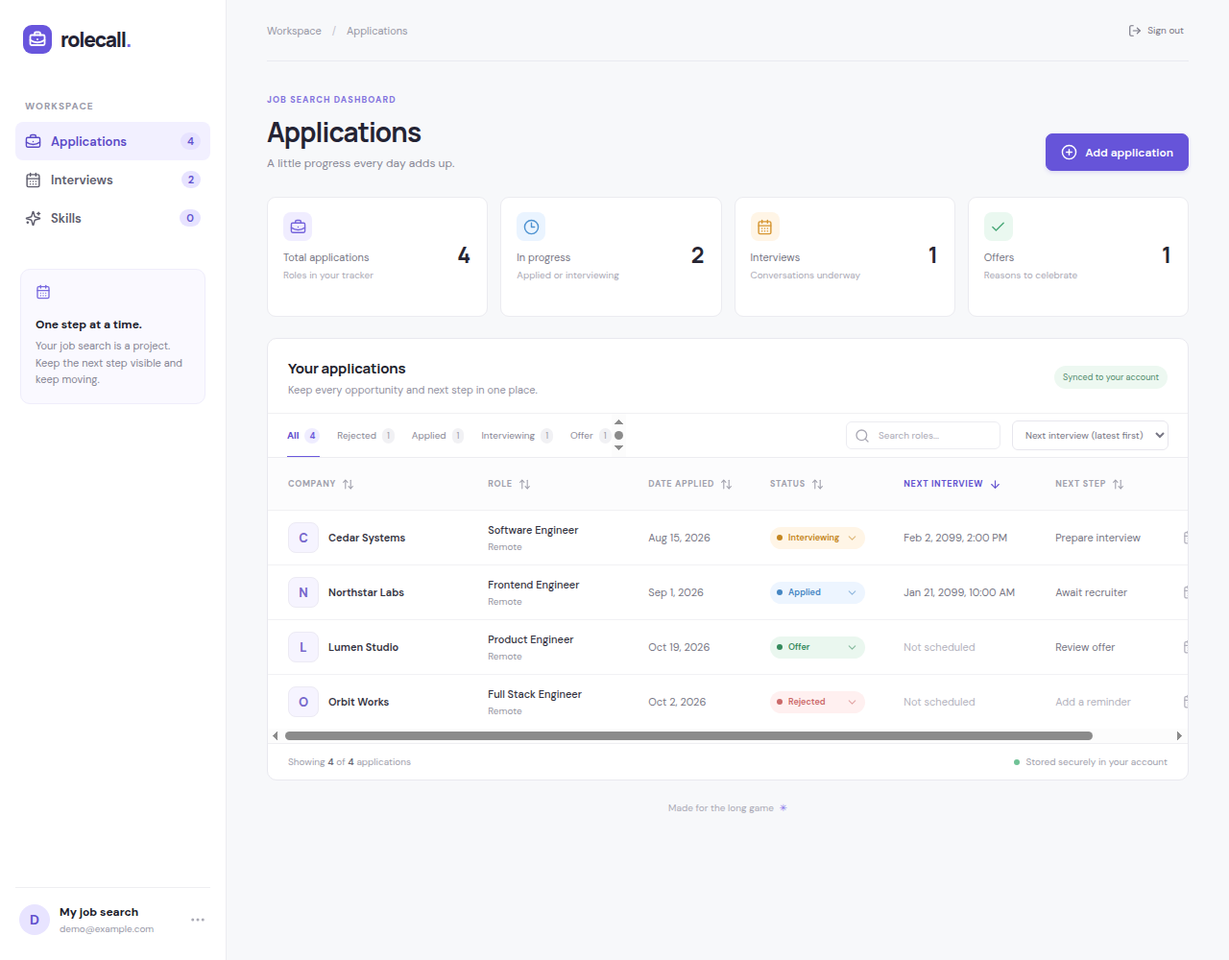
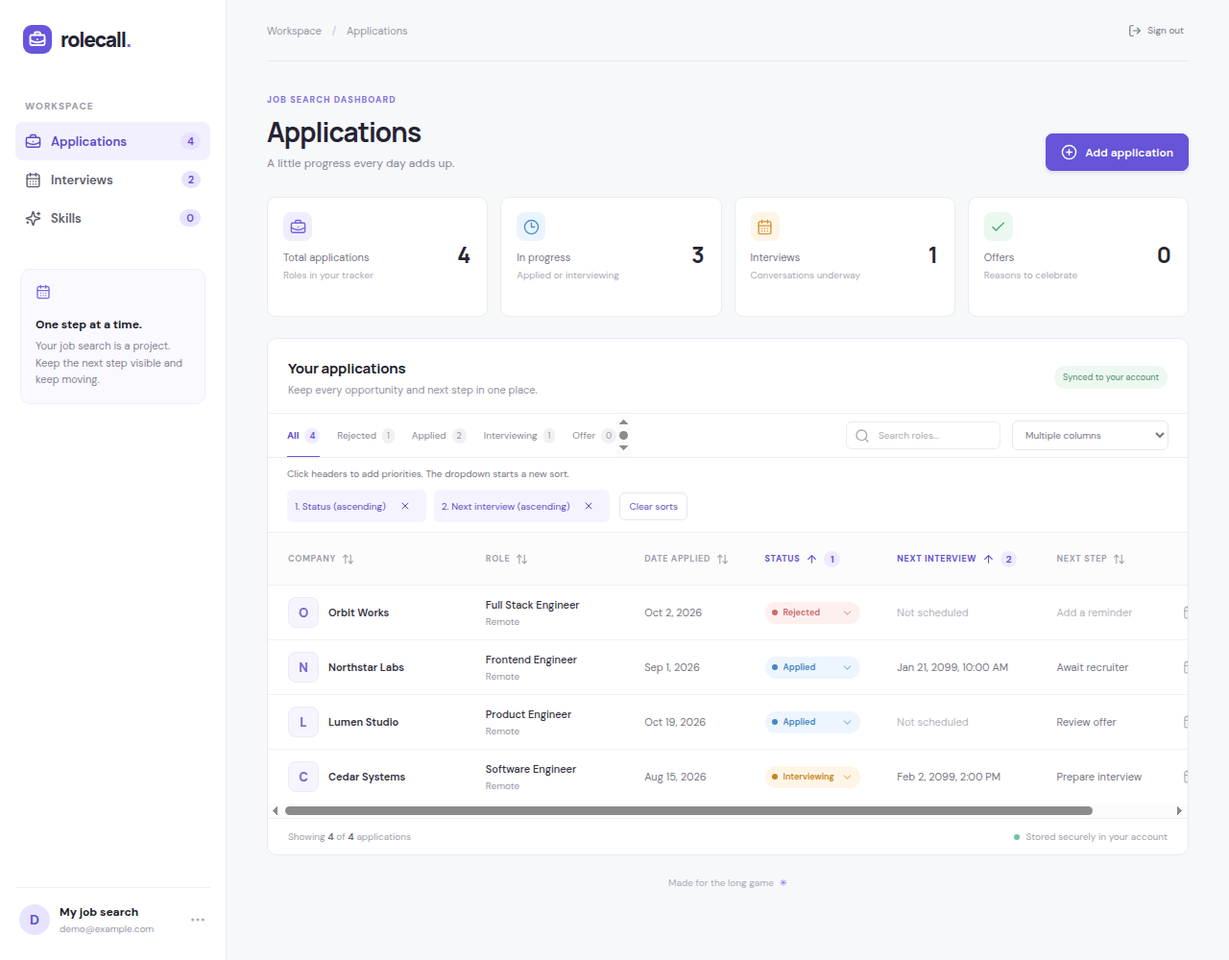
Stack column sorts in click priority order

diff --git a/src/app/App.tsx b/src/app/App.tsx
@@ -11,7 +11,7 @@ import { applicationColumns, fromRow, toRow } from '../features/applications/dat
 import type { ApplicationRow } from '../features/applications/data/applicationRow'
 import { readLegacyApplications } from '../features/applications/data/legacyApplications'
 import { statuses } from '../features/applications/statuses'
-import { getApplicationSortState, nextInterviewTimestamp, sortApplications, toggleApplicationSort } from '../features/applications/applicationSort'
+import { getApplicationSortState, nextInterviewTimestamp, sortApplications, toggleApplicationSortStack } from '../features/applications/applicationSort'
 import type { ApplicationSort, ApplicationSortColumn } from '../features/applications/applicationSort'
 import ApplicationModal from '../features/applications/components/ApplicationModal'
 import ApplicationDetailView from '../features/applications/components/ApplicationDetailView'
@@ -46,24 +46,39 @@ const applicationSortOptions: { value: ApplicationSort; label: string }[] = [
   { value: 'next-step-desc', label: 'Next step Z–A' },
 ]
 
+const applicationSortColumns: { column: ApplicationSortColumn; label: string }[] = [
+  { column: 'company', label: 'Company' },
+  { column: 'role', label: 'Role' },
+  { column: 'date-applied', label: 'Date applied' },
+  { column: 'status', label: 'Status' },
+  { column: 'next-interview', label: 'Next interview' },
+  { column: 'next-step', label: 'Next step' },
+]
+
 const interviewDateFormatter = new Intl.DateTimeFormat(undefined, {
   month: 'short', day: 'numeric', year: 'numeric', hour: 'numeric', minute: '2-digit',
 })
 
-function ApplicationSortHeader({ column, label, sort, onSort }: {
+function ApplicationSortHeader({ column, label, sorts, onSort }: {
   column: ApplicationSortColumn
   label: string
-  sort: ApplicationSort
+  sorts: readonly ApplicationSort[]
   onSort: (column: ApplicationSortColumn) => void
 }) {
-  const state = getApplicationSortState(sort)
-  const direction = state?.column === column ? state.direction : undefined
+  const priority = sorts.findIndex((sort) => getApplicationSortState(sort)?.column === column)
+  const direction = priority >= 0 ? getApplicationSortState(sorts[priority])?.direction : undefined
   const Icon = direction === 'ascending' ? ArrowUp : direction === 'descending' ? ArrowDown : ArrowUpDown
-  return <th scope="col" aria-sort={direction}>
+  const description = direction
+    ? `Sort priority ${priority + 1} of ${sorts.length}, ${direction}. Activate to reverse direction.`
+    : 'Activate to add this column after the current sort priorities.'
+  return <th scope="col" aria-sort={priority === 0 ? direction : undefined} data-sort-active={direction ? 'true' : undefined}>
     <button type="button" className="column-sort-button" onClick={() => onSort(column)}
+      aria-describedby={`sort-description-${column}`}
       title={`Sort ${label.toLowerCase()} ${direction === 'ascending' ? 'descending' : 'ascending'}`}>
       {label}<Icon size={13} aria-hidden="true" />
+      {priority >= 0 && <span className="column-sort-priority" aria-hidden="true">{priority + 1}</span>}
     </button>
+    <span hidden id={`sort-description-${column}`}>{description}</span>
   </th>
 }
 
@@ -82,7 +97,8 @@ function App() {
   const [dataLoading, setDataLoading] = useState(false)
   const [activeStatus, setActiveStatus] = useState<Status | 'All'>('All')
   const [search, setSearch] = useState('')
-  const [applicationSort, setApplicationSort] = useState<ApplicationSort>('status')
+  const [applicationSorts, setApplicationSorts] = useState<ApplicationSort[]>([])
+  const applicationSort = applicationSorts[0] ?? 'status'
   const [isFormOpen, setIsFormOpen] = useState(false)
   const [interviewEditorApplicationId, setInterviewEditorApplicationId] = useState<string | null>(null)
   const [editingApplication, setEditingApplication] = useState<Application | null>(null)
@@ -215,8 +231,8 @@ function App() {
       .filter((application) => activeStatus === 'All' || application.status === activeStatus)
       .filter((application) =>
         !query || `${application.company} ${application.role} ${application.location}`.toLowerCase().includes(query),
-      ), applicationSort, agendaNow)
-  }, [applications, activeStatus, search, applicationSort, agendaNow])
+      ), applicationSorts.length ? applicationSorts : ['status'], agendaNow)
+  }, [applications, activeStatus, search, applicationSorts, agendaNow])
 
   const activeCount = applications.filter((item) => ['Applied', 'Interviewing'].includes(item.status)).length
   const interviewCount = applications.filter((item) => item.status === 'Interviewing').length
@@ -684,14 +700,28 @@ function App() {
             <div className="tabs" role="tablist" aria-label="Filter by status">
               {(['All', ...statuses] as const).map((status) => <button key={status} role="tab" aria-selected={activeStatus === status} className={`tab ${activeStatus === status ? 'tab-active' : ''}`} onClick={() => setActiveStatus(status)}>{status}<span>{status === 'All' ? applications.length : applications.filter((item) => item.status === status).length}</span></button>)}
             </div>
-            <div className="toolbar-actions"><label className="search-box"><Search size={16} /><input value={search} onChange={(event) => setSearch(event.target.value)} placeholder="Search roles..." /></label><label className="sort-control"><span className="sr-only">Sort applications</span><select value={applicationSort} onChange={(event) => setApplicationSort(event.target.value as ApplicationSort)}>{applicationSortOptions.map(({ value, label }) => <option key={value} value={value}>{label}</option>)}</select></label></div>
+            <div className="toolbar-actions"><label className="search-box"><Search size={16} /><input value={search} onChange={(event) => setSearch(event.target.value)} placeholder="Search roles..." /></label><label className="sort-control"><span className="sr-only">Sort applications</span><select value={applicationSorts.length > 1 ? 'stacked' : applicationSort} aria-describedby="application-sort-help" onChange={(event) => setApplicationSorts([event.target.value as ApplicationSort])}>{applicationSorts.length > 1 && <option value="stacked" disabled>Multiple columns</option>}{applicationSortOptions.map(({ value, label }) => <option key={value} value={value}>{label}</option>)}</select></label></div>
+          </div>
+          <div className="application-sort-summary">
+            <span id="application-sort-help">Click headers to add priorities. The dropdown starts a new sort.</span>
+            {applicationSorts.length > 0
+              ? <ol aria-label="Sort priority">{applicationSorts.map((sort, index) => {
+                const state = getApplicationSortState(sort)!
+                const label = applicationSortColumns.find(({ column }) => column === state.column)!.label
+                return <li key={state.column}><span>{index + 1}. {label} ({state.direction})</span><button type="button" aria-label={`Remove ${label} sort`} onClick={() => setApplicationSorts((current) => current.filter((item) => item !== sort))}><X size={12} aria-hidden="true" /></button></li>
+              })}</ol>
+              : <span>Default: Status order</span>}
+            <button type="button" className="clear-application-sorts" disabled={!applicationSorts.length} onClick={() => setApplicationSorts([])}>Clear sorts</button>
+            <span role="status" className="sr-only">{applicationSorts.length
+              ? `Sort priority: ${applicationSorts.map((sort, index) => {
+                const state = getApplicationSortState(sort)!
+                return `${index + 1}. ${applicationSortColumns.find(({ column }) => column === state.column)!.label}, ${state.direction}`
+              }).join('; ')}`
+              : 'Default status order. No explicit sort priorities.'}</span>
           </div>
           {dataLoading ? <div className="empty-state"><p>Loading your applications…</p></div> : visibleApplications.length > 0 ? (
             <div className="table-wrap application-table-wrap"><table className="application-table"><thead><tr>
-              {([
-                ['company', 'Company'], ['role', 'Role'], ['date-applied', 'Date applied'],
-                ['status', 'Status'], ['next-interview', 'Next interview'], ['next-step', 'Next step'],
-              ] as const).map(([column, label]) => <ApplicationSortHeader key={column} column={column} label={label} sort={applicationSort} onSort={(selectedColumn) => setApplicationSort((current) => toggleApplicationSort(current, selectedColumn))} />)}
+              {applicationSortColumns.map(({ column, label }) => <ApplicationSortHeader key={column} column={column} label={label} sorts={applicationSorts} onSort={(selectedColumn) => setApplicationSorts((current) => toggleApplicationSortStack(current, selectedColumn))} />)}
               <th scope="col"><span className="sr-only">Actions</span></th></tr></thead><tbody>
               {visibleApplications.map((application) => {
                 const nextInterview = nextInterviewTimestamp(application, agendaNow)

diff --git a/src/test/unit/applicationSort.test.ts b/src/test/unit/applicationSort.test.ts
@@ -1,5 +1,5 @@
 import { describe, expect, it } from 'vitest'
-import { getApplicationSortState, nextInterviewTimestamp, sortApplications, toggleApplicationSort } from '../../features/applications/applicationSort'
+import { getApplicationSortState, nextInterviewTimestamp, sortApplications, toggleApplicationSort, toggleApplicationSortStack } from '../../features/applications/applicationSort'
 import type { ApplicationSort, ApplicationSortColumn } from '../../features/applications/applicationSort'
 import type { Application, Interview } from '../../shared/types'
 
@@ -126,5 +126,82 @@ describe('application column sorting', () => {
     expect(sortApplications(input, 'next-step', now).map((row) => row.id)).toEqual(['alpha', 'tie', 'zebra', 'blank', 'space'])
     expect(sortApplications(input, 'next-step-desc', now).map((row) => row.id)).toEqual(['zebra', 'alpha', 'tie', 'blank', 'space'])
     expect(input[2].nextStep).toBe('  Call recruiter  ')
+  })
+})
+
+
+describe('ordered application sort stacks', () => {
+  const input: Application[] = [
+    { ...application('offer-none', '2026-10-01'), status: 'Offer' },
+    { ...application('applied-later', '2026-10-03', [interview('1', '2026-10-07', '09:00')]), company: 'Zulu' },
+    { ...application('applied-none', '2026-10-02') },
+    { ...application('offer-soon', '2026-10-04', [interview('2', '2026-10-05', '13:00')]), status: 'Offer' },
+    { ...application('applied-soon', '2026-10-05', [interview('3', '2026-10-05', '13:00')]), company: 'Beta' },
+    { ...application('applied-tie', '2026-10-06', [interview('4', '2026-10-05', '13:00')]), company: 'Alpha' },
+  ]
+  const ids = (sort: readonly ApplicationSort[]) => sortApplications(input, sort, now).map((row) => row.id)
+
+  it('appends new columns and toggles existing columns without changing their priority or input', () => {
+    const initial: readonly ApplicationSort[] = ['status', 'next-interview']
+    expect(toggleApplicationSortStack([], 'status')).toEqual(['status'])
+    expect(toggleApplicationSortStack(initial, 'company')).toEqual(['status', 'next-interview', 'company'])
+    expect(toggleApplicationSortStack(initial, 'status')).toEqual(['status-desc', 'next-interview'])
+    expect(toggleApplicationSortStack(initial, 'next-interview')).toEqual(['status', 'next-interview-desc'])
+    expect(toggleApplicationSortStack(['status-desc', 'next-interview-desc'], 'status')).toEqual(['status', 'next-interview-desc'])
+    expect(initial).toEqual(['status', 'next-interview'])
+  })
+
+  it('keeps status primary and sorts upcoming interviews inside each status', () => {
+    expect(ids(['status', 'next-interview'])).toEqual(['applied-soon', 'applied-tie', 'applied-later', 'applied-none', 'offer-soon', 'offer-none'])
+  })
+
+  it('reverses the primary key without reversing secondary interview order', () => {
+    expect(ids(['status-desc', 'next-interview'])).toEqual(['offer-soon', 'offer-none', 'applied-soon', 'applied-tie', 'applied-later', 'applied-none'])
+  })
+
+  it('reverses the secondary key while leaving missing interviews last within each status', () => {
+    expect(ids(['status', 'next-interview-desc'])).toEqual(['applied-later', 'applied-soon', 'applied-tie', 'applied-none', 'offer-soon', 'offer-none'])
+  })
+
+  it('uses a tertiary key only when both earlier keys tie', () => {
+    expect(ids(['status', 'next-interview', 'company'])).toEqual(['applied-tie', 'applied-soon', 'applied-later', 'applied-none', 'offer-soon', 'offer-none'])
+  })
+
+  it('gives the first clicked column priority rather than imposing status priority', () => {
+    const stack = toggleApplicationSortStack(toggleApplicationSortStack([], 'next-interview'), 'status')
+    expect(stack).toEqual(['next-interview', 'status'])
+    expect(ids(stack)).toEqual(['applied-soon', 'applied-tie', 'offer-soon', 'applied-later', 'applied-none', 'offer-none'])
+  })
+
+  it('uses explicit date criteria before any implicit role or company tie-breaker', () => {
+    const companyRows = [
+      { ...application('earlier-z', '2026-10-01'), company: 'Acme', role: 'Zebra' },
+      { ...application('later-a', '2026-10-02'), company: 'ACME', role: 'Analyst' },
+    ]
+    expect(sortApplications(companyRows, ['company', 'oldest'], now).map((row) => row.id)).toEqual(['earlier-z', 'later-a'])
+    const roleRows = companyRows.map((row, index) => ({ ...row, company: index === 0 ? 'Zulu' : 'Alpha', role: 'Engineer' }))
+    expect(sortApplications(roleRows, ['role', 'oldest'], now).map((row) => row.id)).toEqual(['earlier-z', 'later-a'])
+  })
+
+  it('retains saved order when all explicit keys tie, including an empty stack', () => {
+    const tied = [
+      { ...application('first', '2026-10-01'), company: 'Acme', role: 'Zulu' },
+      { ...application('second', '2026-10-01'), company: 'ACME', role: 'Alpha' },
+    ]
+    expect(sortApplications(tied, ['company', 'status'], now).map((row) => row.id)).toEqual(['first', 'second'])
+    expect(sortApplications(input, [], now)).toEqual(input)
+    expect(sortApplications(input, [], now)).not.toBe(input)
+  })
+
+  it('keeps blank next steps last within earlier-key groups in either direction', () => {
+    const stepRows: Application[] = [
+      { ...application('offer-blank', ''), status: 'Offer' },
+      { ...application('applied-blank', ''), nextStep: ' ' },
+      { ...application('offer-step', ''), status: 'Offer', nextStep: 'Call' },
+      { ...application('applied-step', ''), nextStep: 'Write' },
+    ]
+    for (const step of ['next-step', 'next-step-desc'] as const) {
+      expect(sortApplications(stepRows, ['status', step], now).map((row) => row.id)).toEqual(['applied-step', 'applied-blank', 'offer-step', 'offer-blank'])
+    }
   })
 })

diff --git a/src/test/integration/App.sorting.test.tsx b/src/test/integration/App.sorting.test.tsx
@@ -37,6 +37,7 @@ describe('application sorting controls', () => {
       { header: 'Next step', asc: ['alpha', 'Beta', 'Zeta'], desc: ['Zeta', 'Beta', 'alpha'], option: 'next-step-desc' },
     ]
     for (const { header, asc, desc, option } of cases) {
+      fireEvent.click(screen.getByRole('button', { name: 'Clear sorts' }))
       const button = screen.getByRole('button', { name: header })
       fireEvent.click(button)
       expect(visibleCompanies()).toEqual(asc)
@@ -55,6 +56,52 @@ describe('application sorting controls', () => {
     fireEvent.change(screen.getByPlaceholderText('Search roles...'), { target: { value: '' } })
     fireEvent.click(screen.getByRole('tab', { name: /Applied/ }))
     expect(visibleCompanies()).toEqual(['Beta'])
+  })
+
+  it('stacks headers in first-click priority, toggles in place, and supports removing and clearing sorts', async () => {
+    const groupedRows = [
+      { ...rows[1], id: 'a', company: 'Atlas', status: 'Applied' },
+      { ...rows[2], id: 'b', company: 'Beacon', status: 'Interviewing' },
+      { ...rows[2], id: 'c', company: 'Cedar', status: 'Applied' },
+      { ...rows[0], id: 'd', company: 'Delta', status: 'Interviewing' },
+    ]
+    mocks.from.mockReturnValue({ select: () => ({ order: vi.fn().mockResolvedValue({ data: groupedRows, error: null }) }) })
+    render(<App />)
+    await screen.findByRole('button', { name: 'Edit Engineer at Atlas' })
+    fireEvent.click(screen.getByRole('button', { name: 'Status' }))
+    fireEvent.click(screen.getByRole('button', { name: 'Next interview' }))
+    expect(visibleCompanies()).toEqual(['Cedar', 'Atlas', 'Beacon', 'Delta'])
+    const priorities = () => within(screen.getByRole('list', { name: 'Sort priority' })).getAllByRole('listitem').map((item) => item.textContent)
+    expect(priorities()).toEqual(['1. Status (ascending)', '2. Next interview (ascending)'])
+    expect((screen.getByRole('combobox', { name: 'Sort applications' }) as HTMLSelectElement).value).toBe('stacked')
+    expect(screen.getByRole('columnheader', { name: 'Status' }).getAttribute('aria-sort')).toBe('ascending')
+    expect(screen.getByRole('columnheader', { name: 'Next interview' }).hasAttribute('aria-sort')).toBe(false)
+    expect(screen.getByRole('button', { name: 'Next interview' }).getAttribute('aria-describedby')).toBe('sort-description-next-interview')
+    fireEvent.click(screen.getByRole('button', { name: 'Next interview' }))
+    expect(priorities()).toEqual(['1. Status (ascending)', '2. Next interview (descending)'])
+    expect(visibleCompanies()).toEqual(['Atlas', 'Cedar', 'Beacon', 'Delta'])
+    fireEvent.click(screen.getByRole('button', { name: 'Status' }))
+    expect(priorities()).toEqual(['1. Status (descending)', '2. Next interview (descending)'])
+    expect(visibleCompanies()).toEqual(['Beacon', 'Delta', 'Atlas', 'Cedar'])
+    fireEvent.click(screen.getByRole('button', { name: 'Remove Status sort' }))
+    expect(priorities()).toEqual(['1. Next interview (descending)'])
+    expect(visibleCompanies()).toEqual(['Atlas', 'Beacon', 'Cedar', 'Delta'])
+    expect(screen.getByRole('columnheader', { name: 'Next interview' }).getAttribute('aria-sort')).toBe('descending')
+    fireEvent.click(screen.getByRole('button', { name: 'Clear sorts' }))
+    expect(screen.queryByRole('list', { name: 'Sort priority' })).toBeNull()
+    expect(visibleCompanies()).toEqual(['Atlas', 'Cedar', 'Beacon', 'Delta'])
+    expect((screen.getByRole('button', { name: 'Clear sorts' }) as HTMLButtonElement).disabled).toBe(true)
+    // The default status order does not become an invisible primary criterion.
+    fireEvent.click(screen.getByRole('button', { name: 'Next interview' }))
+    fireEvent.click(screen.getByRole('button', { name: 'Status' }))
+    expect(priorities()).toEqual(['1. Next interview (ascending)', '2. Status (ascending)'])
+    expect(visibleCompanies()).toEqual(['Cedar', 'Beacon', 'Atlas', 'Delta'])
+    fireEvent.change(screen.getByRole('combobox', { name: 'Sort applications' }), { target: { value: 'next-interview' } })
+    expect(priorities()).toEqual(['1. Next interview (ascending)'])
+    expect(visibleCompanies()).toEqual(['Beacon', 'Cedar', 'Atlas', 'Delta'])
+    fireEvent.change(screen.getByRole('combobox', { name: 'Sort applications' }), { target: { value: 'company-desc' } })
+    expect(priorities()).toEqual(['1. Company (descending)'])
+    expect(visibleCompanies()).toEqual(['Delta', 'Cedar', 'Beacon', 'Atlas'])
   })
 
   it('shows the earliest upcoming interview and keeps unscheduled applications last in either direction', async () => {

diff --git a/src/features/applications/applicationSort.ts b/src/features/applications/applicationSort.ts
@@ -34,6 +34,12 @@ export function toggleApplicationSort(current: ApplicationSort, column: Applicat
   return current === ascending ? descending : ascending
 }
 
+export function toggleApplicationSortStack(current: readonly ApplicationSort[], column: ApplicationSortColumn): ApplicationSort[] {
+  const index = current.findIndex((sort) => getApplicationSortState(sort)?.column === column)
+  if (index === -1) return [...current, columnSorts[column][0]]
+  return current.map((sort, position) => position === index ? toggleApplicationSort(sort, column) : sort)
+}
+
 function compareText(a: string, b: string): number {
   return a.localeCompare(b, undefined, { sensitivity: 'base' })
 }
@@ -46,20 +52,24 @@ export function nextInterviewTimestamp(application: Application, now: number): n
   }, Number.POSITIVE_INFINITY)
 }
 
-export function sortApplications(applications: readonly Application[], sort: ApplicationSort, now: number): Application[] {
-  const state = getApplicationSortState(sort)
-  if (!state) return [...applications]
-  const direction = state.direction === 'ascending' ? 1 : -1
-  const nextTimes = state.column === 'next-interview'
+export function sortApplications(applications: readonly Application[], sort: ApplicationSort | readonly ApplicationSort[], now: number): Application[] {
+  const scalar = typeof sort === 'string'
+  const sorts = scalar ? [sort] : sort
+  const states = sorts.flatMap((value) => {
+    const state = getApplicationSortState(value)
+    return state ? [state] : []
+  })
+  const nextTimes = states.some((state) => state.column === 'next-interview')
     ? new Map(applications.map((application) => [application, nextInterviewTimestamp(application, now)]))
     : null
 
-  return [...applications].sort((a, b) => {
+  function compareColumn(a: Application, b: Application, state: NonNullable<ReturnType<typeof getApplicationSortState>>): number {
+    const direction = state.direction === 'ascending' ? 1 : -1
     switch (state.column) {
       case 'company':
-        return direction * (compareText(a.company, b.company) || compareText(a.role, b.role))
+        return direction * (compareText(a.company, b.company) || (scalar ? compareText(a.role, b.role) : 0))
       case 'role':
-        return direction * (compareText(a.role, b.role) || compareText(a.company, b.company))
+        return direction * (compareText(a.role, b.role) || (scalar ? compareText(a.company, b.company) : 0))
       case 'date-applied':
         return direction * a.dateApplied.localeCompare(b.dateApplied)
       case 'status':
@@ -81,5 +91,13 @@ export function sortApplications(applications: readonly Application[], sort: App
         return direction * compareText(aStep, bStep)
       }
     }
+  }
+
+  return [...applications].sort((a, b) => {
+    for (const state of states) {
+      const comparison = compareColumn(a, b, state)
+      if (comparison !== 0) return comparison
+    }
+    return 0
   })
 }

diff --git a/src/features/applications/applicationSort.css b/src/features/applications/applicationSort.css
@@ -1,2 +1,3 @@
 .sort-control{display:inline-flex;align-items:center;flex:none}.sort-control select{max-width:100%;border:1px solid #e7e6ed;border-radius:6px;background:#fff;color:#777684;padding:7px 9px;font:inherit;font-size:10px;cursor:pointer}.sort-control select:focus-visible{outline:2px solid #7668cc;outline-offset:2px}.skills-toolbar{flex-wrap:wrap}
 .application-table{min-width:1050px}.application-table-wrap{position:relative}.application-table .company-cell{min-width:160px}.application-role-cell{min-width:150px;max-width:260px;overflow-wrap:anywhere}.application-role-cell strong{display:block;color:#343341;font-weight:500}.application-role-cell>span{display:block;margin-top:4px;color:#9695a2;font-size:10px}.column-sort-button{display:inline-flex;align-items:center;gap:6px;min-height:32px;padding:4px 0;border:0;background:transparent;color:inherit;font:inherit;letter-spacing:inherit;text-transform:uppercase;text-align:left;white-space:nowrap}.column-sort-button svg{flex-shrink:0}.column-sort-button:hover,.application-table th[aria-sort] .column-sort-button{color:#6352cf}.column-sort-button:focus-visible{outline:2px solid #7668cc;outline-offset:4px;border-radius:2px}@media(max-width:680px){.column-sort-button{min-height:44px}.application-table .company-cell{min-width:150px}}
+.application-table th[data-sort-active] .column-sort-button{color:#6352cf}.column-sort-priority{display:inline-grid;place-items:center;min-width:17px;height:17px;padding:0 3px;border-radius:50%;background:#eeeaff;font-size:10px;letter-spacing:0}.application-sort-summary{display:flex;align-items:center;flex-wrap:wrap;gap:10px;padding:10px 20px;border-bottom:1px solid #ececf1;font-size:10px;color:#777684}.application-sort-summary>span:first-child{flex-basis:100%}.application-sort-summary ol{display:flex;flex-wrap:wrap;gap:8px;list-style:none;margin:0;padding:0;min-width:0}.application-sort-summary li{display:flex;align-items:center;gap:6px;max-width:100%;overflow-wrap:anywhere;background:#f5f3ff;color:#6251c6;border-radius:6px;padding:3px 8px}.application-sort-summary li button{display:inline-grid;place-items:center;flex-shrink:0;min-width:28px;min-height:28px;background:transparent;border:0;color:inherit}.clear-application-sorts{padding:7px 9px;border:1px solid #e7e6ed;border-radius:6px;background:#fff;color:#6251c6;font:inherit}.clear-application-sorts:disabled{opacity:.5;cursor:default}.application-sort-summary button:focus-visible{outline:2px solid #7668cc;outline-offset:2px}@media(max-width:680px){.application-sort-summary{padding:10px 15px}.application-sort-summary li button,.clear-application-sorts{min-height:44px;min-width:44px}}

diff --git a/docs/wiki/Application-overview.md b/docs/wiki/Application-overview.md
@@ -4,9 +4,11 @@
 
 ## Applications
 
-Create a record with company, role, location, application date, posting URL, notes, and next step. Statuses are **Rejected**, **Applied**, **Interviewing**, and **Offer**. Default status ordering follows that sequence and preserves saved order within a status. Older Interested records normalize to Applied. Search company/role/location and filter by status. Click **Company**, **Role**, **Date applied**, **Status**, **Next interview**, or **Next step** to sort that column; click the same header again to reverse the order. The arrow marks the current direction, and the sort dropdown stays synchronized. Company and role sort alphabetically; company ties use role and role ties use company. Status follows the default priority above, or its reverse.
+Create a record with company, role, location, application date, posting URL, notes, and next step. Statuses are **Rejected**, **Applied**, **Interviewing**, and **Offer**. Default status ordering follows that sequence and preserves saved order within a status. Older Interested records normalize to Applied. Search company/role/location and filter by status. Click **Company**, **Role**, **Date applied**, **Status**, **Next interview**, or **Next step** to add that column to the sort order. The first column clicked has highest priority; subsequent columns break ties. For example, click **Status**, then **Next interview** to order interviews within each status group. Numbered badges and the sort-priority list show precedence; arrows show direction. Clicking an active header reverses its direction without moving its priority. Company and role sort alphabetically, and status follows the default priority above or its reverse. Records tied on every selected column retain saved order.
 
-**Next interview** shows the earliest valid upcoming round's date and time in the device's local time zone. Past rounds are excluded; applications without an upcoming round display **Not scheduled** and stay last in either direction. Empty next steps likewise stay last when sorting that column. Open the company to view application details; row actions edit, delete, or manage interviews.
+Remove an individual criterion with its **Remove … sort** control, or use **Clear sorts** to return to default status order and start a new stack. The default status order does not become an invisible primary criterion: the first header clicked after clearing becomes primary. The dropdown shows **Multiple columns** when sorts are stacked; selecting an option starts a new single-column sort.
+
+**Next interview** shows the earliest valid upcoming round's date and time in the device's local time zone. Past rounds are excluded; applications without an upcoming round display **Not scheduled** and stay last within earlier-priority groups in either direction. Empty next steps likewise stay last within earlier groups when sorting that column. Open the company to view application details; row actions edit, delete, or manage interviews.
 
 An **application** is one role at one company. Two applications at the same company remain separate records. A **skill** is extracted from that application's saved posting. Its knowledge level belongs to that application skill, rather than globally to the skill name.
 

diff --git a/docs/screenshots/column-sorting-qa.md b/docs/screenshots/column-sorting-qa.md
@@ -1,11 +1,12 @@
 # Column sorting browser check
 
-Reviewed the complete implementation diff with the `ui-review` skill and exercised a local Vite fixture using installed Chromium. All records, account identity, and interview dates in the screenshots are fictional. No real Supabase connection was used.
+Reviewed the complete multi-column extension diff and preceding column-sorting changes with the `ui-review` skill. Exercised a local Vite fixture using installed Chromium. All records, account identity, and dates shown are fictional; no real Supabase connection was used.
 
-- Mouse activation toggled Company ascending/descending and Next interview earliest/latest, synchronized the dropdown, and updated the single active `aria-sort` header.
-- Keyboard Enter activated the focused Company header.
-- Upcoming interview dates rendered with date and time; applications without upcoming dates remained last in either order. The fixture included a past interview and multiple future dates.
-- At 390px, the longest dropdown option fit within the toolbar. The 1050px table scrolled inside its 358px container; the mobile screenshot shows the Next interview column after horizontal scrolling.
-- Desktop screenshot: `column-sorting-desktop.png` (1280 × 1000). Mobile screenshot: `column-sorting-mobile.png` (390 × 844).
+- Clicking Status first and Next interview second produced priorities 1 and 2. Within the Applied group, the upcoming interview sorted before the unscheduled application.
+- Toggling Status reversed its direction without changing priority order. Removing Status promoted Next interview to primary. Clear sorts restored the implicit default status order.
+- The dropdown displayed Multiple columns for a stack. Choosing a scalar option replaced the stack, including choosing Status when Status was already primary.
+- Keyboard Enter activated a focused header and appended it to the stack. Only the primary header exposed `aria-sort`; header descriptions included each active priority and direction.
+- At 390px, priority chips wrapped inside the 358px summary container. The longest dropdown option fit within the toolbar. The 1050px table scrolled inside its container; the mobile screenshot shows Status and Next interview after horizontal scrolling.
+- Desktop screenshot: `column-sorting-desktop.png` (1280 × 1000). Mobile screenshot: `column-sorting-mobile.png` (390 × 844). Both show Status priority 1 and Next interview priority 2.
 
 No actionable findings in the feature diff. The existing mobile navigation can extend beyond 390px; this check did not change or resolve that separate layout issue. Physical devices, screen readers, and other browser engines were not tested. This review did not perform a full contrast audit.
